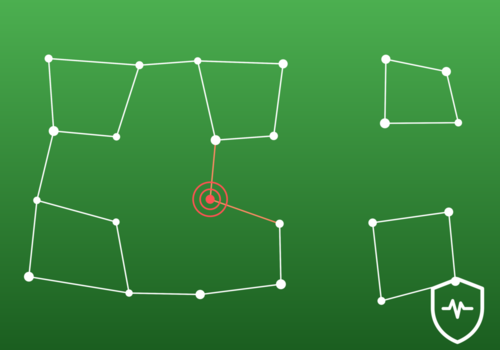
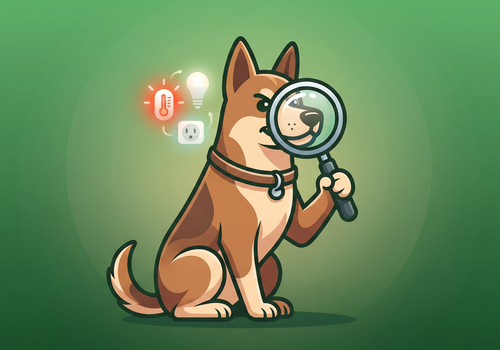
Battery-Badges, Geräte-Details-Panel, klickbare Filter, Scroll-Fix, neues Store-Bild (Hund+Lupe)

diff --git a/settings/index.html b/settings/index.html
@@ -13,15 +13,28 @@
       --color-bg-alt: #fafafa;
     }
     * { box-sizing: border-box; }
+    html, body {
+      height: auto;
+      min-height: 100%;
+    }
     body {
       font-family: -apple-system, BlinkMacSystemFont, "Segoe UI", Roboto, sans-serif;
       font-size: 14px;
       color: #212121;
       margin: 0;
-      padding: 16px 20px 60px;
+      padding: 16px 20px 24px;
+      overflow-y: auto;
+      -webkit-overflow-scrolling: touch;
     }
-    h1 { font-size: 18px; margin: 0 0 4px; }
-    p.sub { color: var(--color-muted); margin: 0 0 16px; }
+    .app-header { display: flex; align-items: center; gap: 14px; margin-bottom: 16px; }
+    .app-icon-badge {
+      width: 52px; height: 52px; border-radius: 14px; flex: 0 0 auto;
+      background: linear-gradient(135deg, #4CAF50, #1B5E20);
+      display: flex; align-items: center; justify-content: center;
+      box-shadow: 0 2px 6px rgba(0,0,0,.15);
+    }
+    h1 { font-size: 18px; margin: 0; }
+    p.sub { color: var(--color-muted); margin: 2px 0 0; }
     .tabs {
       display: flex;
       gap: 4px;
@@ -96,14 +109,18 @@
     .toolbar { display: flex; gap: 8px; align-items: center; margin-bottom: 12px; flex-wrap: wrap; }
     .toolbar .spacer { flex: 1; }
     .save-bar {
-      position: fixed; bottom: 0; left: 0; right: 0;
       background: #fff; border-top: 1px solid var(--color-border);
-      padding: 10px 20px; display: flex; justify-content: flex-end; align-items: center; gap: 12px;
-      z-index: 10;
+      margin-top: 20px;
+      padding: 14px 0 4px; display: flex; justify-content: flex-end; align-items: center; gap: 12px;
     }
     #save-status { color: var(--color-muted); font-size: 12.5px; }
     .stat-grid { display: flex; gap: 12px; margin-bottom: 14px; flex-wrap: wrap; }
-    .stat { border: 1px solid var(--color-border); border-radius: 8px; padding: 10px 16px; min-width: 120px; }
+    .stat {
+      border: 1px solid var(--color-border); border-radius: 8px; padding: 10px 16px; min-width: 120px;
+      cursor: pointer; transition: border-color .15s, background-color .15s;
+    }
+    .stat:hover { border-color: #90caf9; }
+    .stat.active { border-color: #1a73e8; background: #eaf2fe; }
     .stat .num { font-size: 22px; font-weight: 700; }
     .stat .lbl { color: var(--color-muted); font-size: 11.5px; text-transform: uppercase; }
     .empty { color: var(--color-muted); font-style: italic; padding: 8px 4px; }
@@ -145,6 +162,9 @@
     .device-advanced .f { display: flex; flex-direction: column; gap: 3px; font-size: 12px; color: var(--color-muted); }
     .device-advanced .f.chk { flex-direction: row; align-items: center; gap: 6px; }
     .device-advanced input[type=number] { width: 90px; padding: 5px 7px; border: 1px solid var(--color-border); border-radius: 4px; }
+    .device-info { width: 100%; display: flex; flex-wrap: wrap; gap: 4px 22px; font-size: 12px; color: var(--color-muted); margin-bottom: 10px; padding-bottom: 10px; border-bottom: 1px dashed var(--color-border); }
+    .device-info b { color: #212121; font-weight: 600; }
+    .badge-group { display: flex; flex-direction: column; align-items: flex-end; gap: 3px; }
 
     details.adv-block {
       border: 1px solid var(--color-border); border-radius: 8px; padding: 12px 16px; margin-top: 16px; background: #fff;
@@ -157,8 +177,27 @@
 </head>
 <body>
 
-  <h1>Device Watchdog</h1>
-  <p class="sub">Überwacht Geräte auf Erreichbarkeit und Batteriestand.</p>
+  <div class="app-header">
+    <div class="app-icon-badge">
+      <svg viewBox="-140 -170 280 320" width="30" height="30">
+        <g fill="#ffffff">
+          <path d="M38,-45 L88,-150 L98,-55 Z" />
+          <path d="M-38,-45 L-88,-150 L-98,-55 Z" />
+          <circle cx="0" cy="-15" r="78" />
+          <path d="M-46,15 C-46,55 -26,88 0,90 C26,88 46,55 46,15 C46,-5 -46,-5 -46,15 Z" />
+        </g>
+        <g fill="#1B5E20">
+          <circle cx="-30" cy="-18" r="10" />
+          <circle cx="30" cy="-18" r="10" />
+          <ellipse cx="0" cy="28" rx="12" ry="8" />
+        </g>
+      </svg>
+    </div>
+    <div>
+      <h1>Device Watchdog</h1>
+      <p class="sub">Überwacht Geräte auf Erreichbarkeit und Batteriestand.</p>
+    </div>
+  </div>
 
   <div class="tabs">
     <button class="tab-btn active" data-tab="devices">Geräte</button>
@@ -270,6 +309,7 @@
         rules: [],
         devices: [],
         lastScan: null,
+        filterMode: null,
       };
 
       // ---------------------------------------------------------------
@@ -389,17 +429,51 @@
         return '<span class="badge">kein Status (Filter)</span>';
       }
 
+      // Separate battery-% badge, shown independently of the connectivity badge above
+      // (so you can see the charge level even for a device that's also flagged offline).
+      function batteryBadgeHtml(view) {
+        if (!view.scanEntry) return '';
+        var b = view.scanEntry.battery;
+        if (!b || b === 'N/A' || b === 'EXCL') return '';
+        if (b === 'ALARM') return '<span class="badge nok">Batterie-Alarm</span>';
+        if (view.isLowBattery) return '';  // already shown by badgeHtml above in this case
+        return '<span class="badge">🔋 ' + escapeHtml(b) + '</span>';
+      }
+
       function metaHtml(view) {
         if (!view.scanEntry) return view.monitored ? 'Noch kein Scan-Ergebnis' : 'Wird beim Scan übersprungen';
-        var parts = ['Update: ' + (view.scanEntry.lastUpdated ? new Date(view.scanEntry.lastUpdated).toLocaleString('de-DE') : 'keine Daten')];
-        if (view.scanEntry.battery && view.scanEntry.battery !== 'N/A') parts.push('Batterie: ' + view.scanEntry.battery);
-        return parts.join(' · ');
+        return 'Update: ' + (view.scanEntry.lastUpdated ? new Date(view.scanEntry.lastUpdated).toLocaleString('de-DE') : 'keine Daten');
+      }
+
+      // Best-effort, honest connection label: only claims a specific protocol (Z-Wave/Zigbee/...)
+      // when the owning app id literally says so - otherwise just shows which app manages the device.
+      function connectionLabel(ownerUri) {
+        if (!ownerUri) return null;
+        var appId = ownerUri.replace(/^homey:app:/, '');
+        var lower = appId.toLowerCase();
+        if (lower.indexOf('zwave') !== -1) return 'Z-Wave (' + appId + ')';
+        if (lower.indexOf('zigbee') !== -1) return 'Zigbee (' + appId + ')';
+        if (lower.indexOf('bluetooth') !== -1 || lower.indexOf('.ble') !== -1) return 'Bluetooth (' + appId + ')';
+        if (lower.indexOf('433') !== -1) return '433 MHz (' + appId + ')';
+        if (lower.indexOf('infrared') !== -1 || lower.indexOf('.ir') !== -1) return 'Infrarot (' + appId + ')';
+        return appId;
+      }
+
+      function deviceInfoHtml(view) {
+        var d = view.device;
+        var bits = ['<span><b>Geräte-ID:</b> ' + escapeHtml(d.id) + '</span>'];
+        var conn = connectionLabel(d.ownerUri);
+        if (conn) bits.push('<span><b>Verwaltet von:</b> ' + escapeHtml(conn) + '</span>');
+        if (d.driverId) bits.push('<span><b>Treiber:</b> ' + escapeHtml(d.driverId) + '</span>');
+        if (d.lastSeenAt) bits.push('<span><b>Zuletzt gesehen:</b> ' + new Date(d.lastSeenAt).toLocaleString('de-DE') + '</span>');
+        return '<div class="device-info">' + bits.join('') + '</div>';
       }
 
       function deviceAdvancedHtml(view) {
         var r = view.rule || {};
         return '' +
           '<div class="device-advanced" id="adv-' + view.device.id + '">' +
+          deviceInfoHtml(view) +
           '<div class="f"><label>Tage bis "offline"</label><input type="number" min="0" step="1" data-field="notReportingDays" data-id="' + view.device.id + '" value="' + (r.notReportingDays == null ? '' : r.notReportingDays) + '" placeholder="Standard" /></div>' +
           '<div class="f"><label>Batterie-Schwelle %</label><input type="number" min="0" max="100" step="1" data-field="batteryThreshold" data-id="' + view.device.id + '" value="' + (r.batteryThreshold == null ? '' : r.batteryThreshold) + '" placeholder="Standard" /></div>' +
           '<label class="f chk"><input type="checkbox" data-field="onlyCheckBattery" data-id="' + view.device.id + '"' + (r.onlyCheckBattery ? ' checked' : '') + ' /> Nur Batterie prüfen</label>' +
@@ -419,8 +493,8 @@
           '<div class="device-name">' + escapeHtml(d.name) + (d.zone ? '<span class="device-zone">' + escapeHtml(d.zone) + '</span>' : '') + '</div>' +
           '<div class="device-meta">' + metaHtml(view) + '</div>' +
           '</div>' +
-          badgeHtml(view) +
-          '<button class="btn small link" data-action="toggle-advanced" data-id="' + d.id + '" data-name="' + escapeHtml(d.name) + '">Anpassen' + (hasAdvanced ? ' ●' : '') + '</button>' +
+          '<div class="badge-group">' + badgeHtml(view) + batteryBadgeHtml(view) + '</div>' +
+          '<button class="btn small link" data-action="toggle-advanced" data-id="' + d.id + '" data-name="' + escapeHtml(d.name) + '">Details' + (hasAdvanced ? ' ●' : '') + '</button>' +
           '</div>' +
           deviceAdvancedHtml(view);
       }
@@ -432,13 +506,28 @@
         return 3;
       }
 
+      function matchesFilter(view) {
+        switch (state.filterMode) {
+          case 'offline': return !!(view.scanEntry && view.scanEntry.status === 'NOK');
+          case 'lowBattery': return view.isLowBattery;
+          case 'unmonitored': return !view.monitored;
+          default: return true;
+        }
+      }
+
       function renderDevices() {
         var query = document.getElementById('device-search').value.trim().toLowerCase();
         var views = state.devices
           .filter(function (d) {
             return !query || d.name.toLowerCase().indexOf(query) !== -1 || (d.zone || '').toLowerCase().indexOf(query) !== -1;
           })
-          .map(computeDeviceView);
+          .map(computeDeviceView)
+          .filter(matchesFilter);
+
+        if (state.filterMode === 'unmonitored') {
+          var detailsEl = document.getElementById('unmonitored-details');
+          if (detailsEl) detailsEl.open = true;
+        }
 
         var monitoredViews = views.filter(function (v) { return v.monitored; });
         var unmonitoredViews = views.filter(function (v) { return !v.monitored; });
@@ -463,11 +552,19 @@
         var offline = state.lastScan ? state.lastScan.notReporting.length : 0;
         var lowBatt = state.lastScan ? state.lastScan.lowBattery.length : 0;
         var unmonitoredTotal = state.rules.filter(function (r) { return r.matchType === 'id' && r.excludeAll; }).length;
+
+        function statCard(filterKey, num, color, label) {
+          var isActive = state.filterMode === filterKey;
+          return '<div class="stat' + (isActive ? ' active' : '') + '" data-filter="' + filterKey + '">' +
+            '<div class="num"' + (color ? ' style="color:' + color + '"' : '') + '>' + num + '</div>' +
+            '<div class="lbl">' + label + '</div></div>';
+        }
+
         grid.innerHTML =
-          '<div class="stat"><div class="num">' + total + '</div><div class="lbl">Geräte gesamt</div></div>' +
-          '<div class="stat"><div class="num" style="color:var(--color-nok)">' + offline + '</div><div class="lbl">Offline</div></div>' +
-          '<div class="stat"><div class="num" style="color:var(--color-warn)">' + lowBatt + '</div><div class="lbl">Batterie niedrig</div></div>' +
-          '<div class="stat"><div class="num">' + unmonitoredTotal + '</div><div class="lbl">Nicht überwacht</div></div>';
+          statCard('all', total, null, 'Geräte gesamt') +
+          statCard('offline', offline, 'var(--color-nok)', 'Offline') +
+          statCard('lowBattery', lowBatt, 'var(--color-warn)', 'Batterie niedrig') +
+          statCard('unmonitored', unmonitoredTotal, null, 'Nicht überwacht');
 
         var info = document.getElementById('last-scan-info');
         info.textContent = state.lastScan
@@ -514,12 +611,24 @@
 
       document.getElementById('device-search').addEventListener('input', renderDevices);
 
+      document.getElementById('stat-grid').addEventListener('click', function (e) {
+        var card = e.target.closest('.stat');
+        if (!card) return;
+        var key = card.dataset.filter;
+        state.filterMode = (key === 'all' || state.filterMode === key) ? null : key;
+        renderDevices();
+      });
+
       document.getElementById('btn-run-scan').addEventListener('click', function () {
         var btn = document.getElementById('btn-run-scan');
         btn.disabled = true;
         btn.textContent = 'Scan läuft…';
-        apiCall('POST', '/scan').then(function (scan) {
-          state.lastScan = scan;
+        Promise.all([
+          apiCall('POST', '/scan'),
+          apiCall('GET', '/devices/raw'),
+        ]).then(function (results) {
+          state.lastScan = results[0];
+          state.devices = results[1];
           renderDevices();
         }).catch(function (err) {
           Homey.alert('Scan fehlgeschlagen: ' + (err && err.message ? err.message : err));

diff --git a/app.js b/app.js
@@ -186,6 +186,9 @@ class DeviceWatchdogApp extends Homey.App {
         zone: device.zone ? (zoneMap[device.zone] || null) : null,
         class: device.class || null,
         available: device.available !== false,
+        ownerUri: device.ownerUri || null,
+        driverId: device.driverId || null,
+        lastSeenAt: device.lastSeenAt || null,
       }))
       .sort((a, b) => a.name.localeCompare(b.name));
   }
